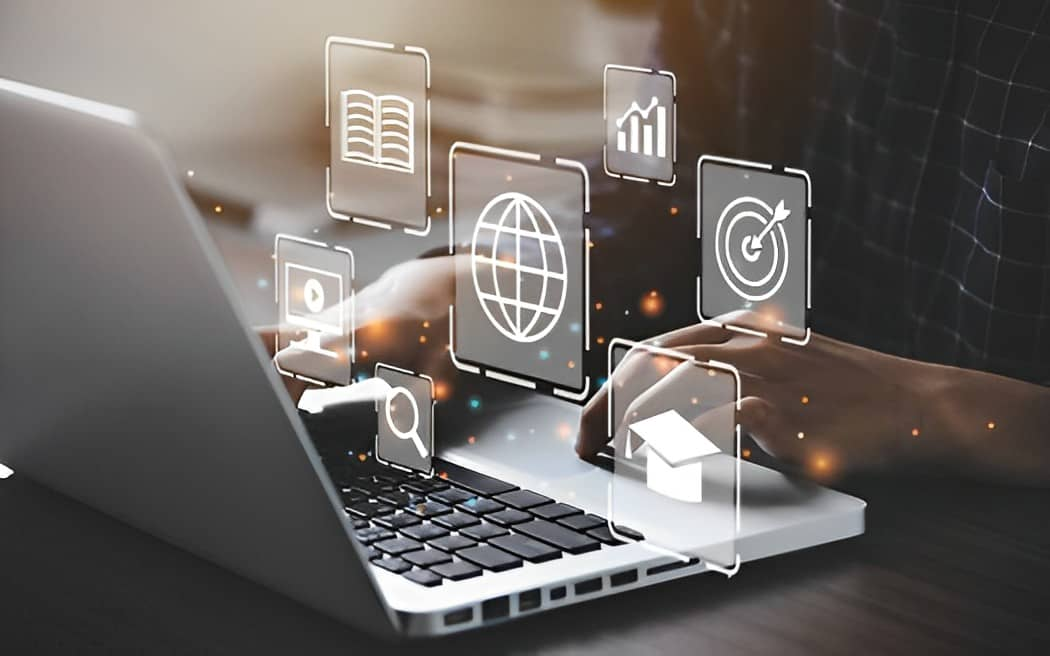
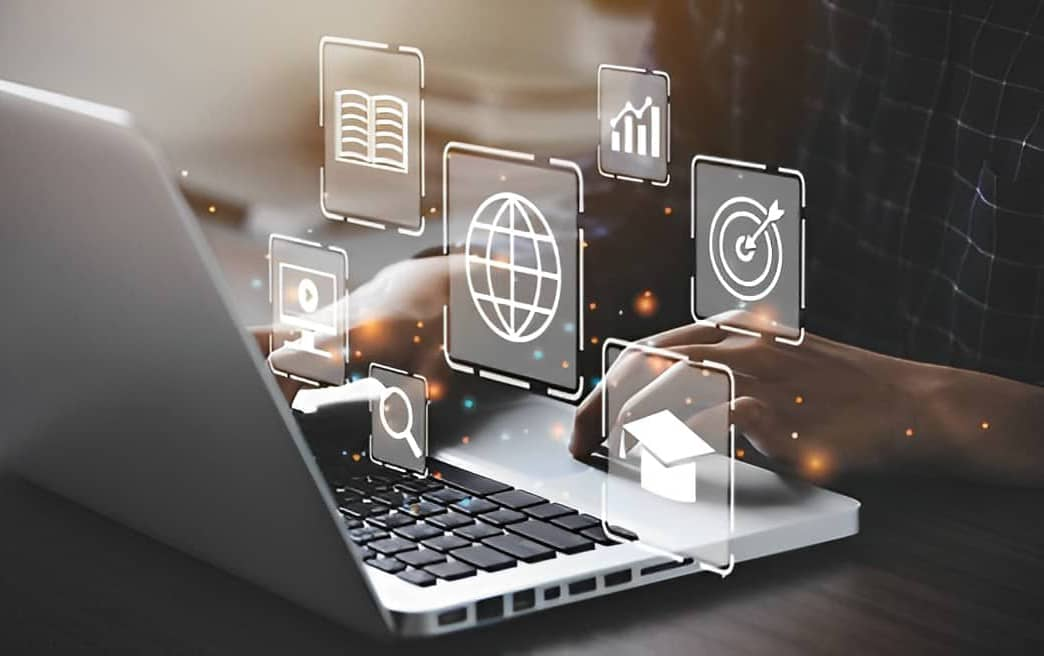
make body elements size smaller

diff --git a/styles/style.css b/styles/style.css
@@ -1357,12 +1357,14 @@ body{
     padding-top: 50px;
 }
 .school-body .text-school{
-    width: 95%;
+    width: 85%;
     text-align: justify;
     padding-right: 5%;
 }
 .school-body .text-school h1{
     line-height: 1.6;
+    font-size: 31px;
+    justify-content: justify;
 }
 .school-body .text-school h1 span{
     color: #006936;
@@ -1384,7 +1386,7 @@ body{
 }
 
 .school-body .text-school button.learn-more {
-    width: 12rem;
+    width: 11rem;
     height: auto;
 }
 
@@ -1467,15 +1469,17 @@ body{
 .school-body .text-school p{
     margin-top: 25px;
     color:#0000009a;
-    font-size: 16px;
+    font-size: 15px;
     line-height: 1.8;
 }
 .school-body .img-school{
     width: 100%;
     direction: ltr;
+    display: flex;
+    justify-content: center;
 }
 .school-body .img-school img{
-    width: 95%;
+    width: 85%;
     border: 3px solid #006936;
     border-radius: 3px;
     box-shadow: 0px 10px 10px rgba(0, 0, 0, 0.1);
@@ -1488,18 +1492,29 @@ body{
         border-top: 1px solid;
     }
 }
+
 @media(max-width:762px){
+    .school-body .img-school{
+        width: 100%;
+        justify-content: center;
+        padding-right: 5%;
+    }
+    .school-body .img-school img{
+        width: 95%;
+    }
     .school-body section:not(:first-child){
         margin-top: 100px;
     }
     .school-body .text-school{
         margin-top: 30px;
+        width: 95%;
+        padding-right: 8%;
     }
     .school-body .text-school h1{
-        font-size: 22px;
+        font-size: 20px;
     }
     .school-body .text-school p{
-        font-size: 13px;
+        font-size: 12px;
     }
     .school-body .text-school button.learn-more .circle {
         width: 2rem;
@@ -1526,6 +1541,17 @@ body{
     }
     
 }
+/* only tablet media query */
+@media(min-width:762px) and (max-width:992px){
+    .school-body{
+        margin-top: 100px;
+    }
+    .school-body .text-school{
+        width: 88%;
+        padding-right: 9%;
+    }
+}
+
 footer{
     margin-top: 500px;
 }

diff --git a/index.html b/index.html
@@ -564,8 +564,8 @@
                 </div>
               </div>
               <div dir="rtl" class="col-12 col-lg-6 appear">
-                  <div class="text-school mt-4 mt-lg-0 ">
-                      <h1>بهره گیری از قابلیت های ﻭﺏ برای ﺗﻮﺳﻌﻪ محتوای<span> آموزشی</span></h1>
+                  <div class="text-school mt-4 mt-lg-0">
+                      <h1>بهره گیری از قابلیت های پیشرفته وب برای ﺗﻮﺳﻌﻪ محتوای<span> آموزشی</span></h1>
                       <p>لورم ایپسوم متن ساختگی با تولید سادگی نامفهوم از صنعت چاپ، و با استفاده از طراحان گرافیک است، چاپگرها و متون بلکه روزنامه و مجله در ستون و سطرآنچنان که لازم است، و برای شرایط فعلی تکنولوژی مورد نیاز، و کاربردهای متنوع </p>
                       <button class="learn-more">
                         <span class="circle" aria-hidden="true">
